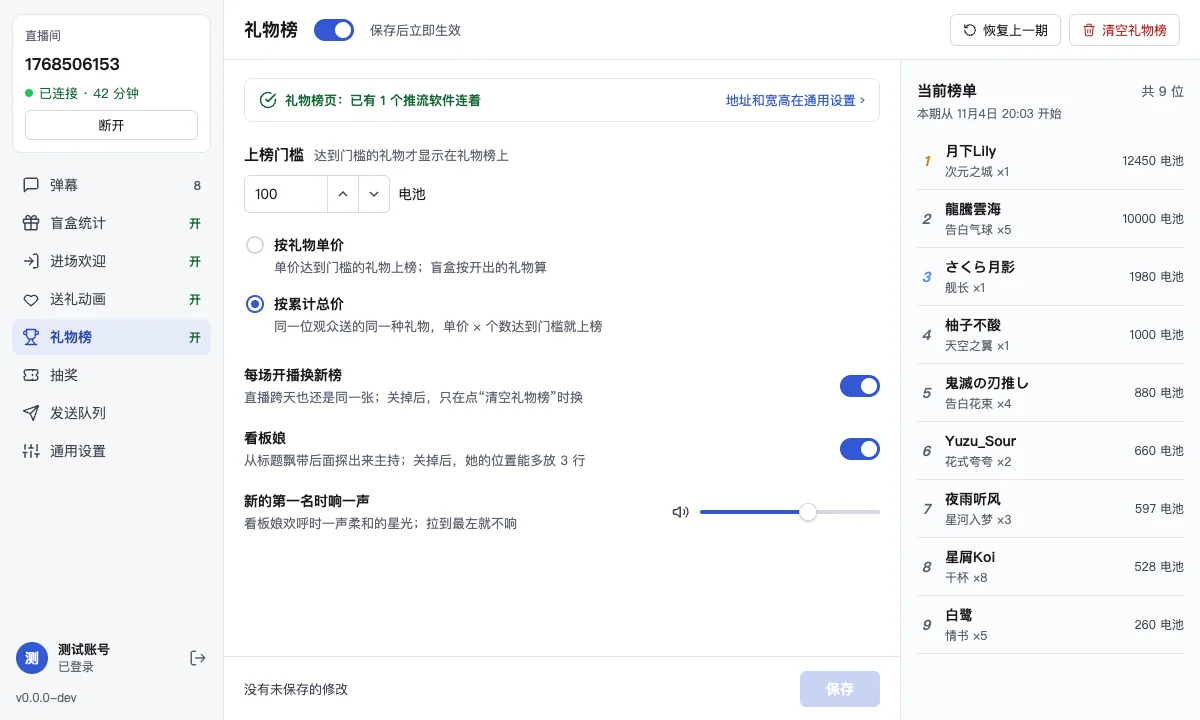
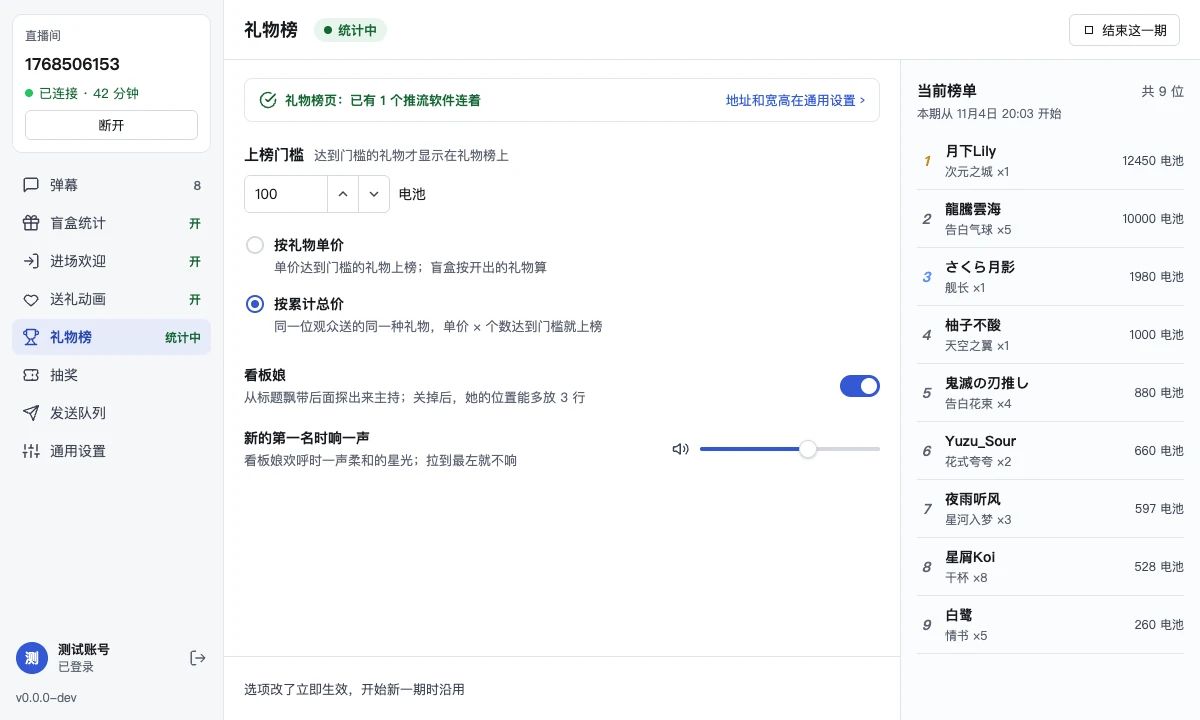
docs: the 礼物榜 runs in periods like a lottery, in the GUI only (ADR 0014, #296)
The GUI board (GS1) loses its switch and save: a 期 is started, ended and continued, only a running one records and shows on the
stream, and its options apply at once. The previews are rendered from the board again, with the ended, not-started and
end-confirm states added and the restore ones gone.

diff --git a/docs/design/gift-board/boards/GS1-GiftBoardSettings.dc.html b/docs/design/gift-board/boards/GS1-GiftBoardSettings.dc.html
@@ -50,16 +50,26 @@ a{color:#3358D4}a:hover{color:#2A47B0}
   <div style="flex: 1; min-width: 0; display: flex; flex-direction: column">
     <header style="height: 60px; flex-shrink: 0; box-sizing: border-box; display: flex; align-items: center; gap: 16px; padding: 0 20px; border-bottom: 1px solid {{t.border}}">
       <h1 style="margin: 0; font-size: 18px; font-weight: 700; white-space: nowrap">礼物榜</h1>
-      <button type="button" role="switch" aria-checked="{{onSwitch.on}}" aria-label="礼物榜" onClick="{{onSwitch.toggle}}" style="position: relative; width: 40px; height: 22px; border: 0; border-radius: 11px; background: {{onSwitch.bg}}; padding: 0"><span style="position: absolute; top: 3px; left: {{onSwitch.knob}}; width: 16px; height: 16px; border-radius: 50%; background: #fff"></span></button>
-      <span style="font-size: 13px; color: {{t.muted}}; white-space: nowrap">保存后立即生效</span>
+      <sc-if value="{{connected}}" hint-placeholder-val="{{true}}">
+        <span role="status" style="display: inline-flex; align-items: center; gap: 6px; height: 24px; padding: 0 10px; border-radius: 12px; background: {{state.bg}}; color: {{state.color}}; font-size: 13px; font-weight: 600; white-space: nowrap"><span style="width: 8px; height: 8px; box-sizing: border-box; border-radius: {{state.dotRadius}}; background: {{state.dot}}; border: {{state.dotBorder}}"></span>{{state.label}}</span>
+      </sc-if>
       <span style="flex: 1"></span>
-      <sc-if value="{{offline}}" hint-placeholder-val="{{false}}"><span style="font-size: 13px; color: {{t.muted}}; white-space: nowrap">连上直播间后才能清空和恢复</span></sc-if>
-      <button type="button" onClick="{{askRestore}}" disabled="{{restoreDisabled}}" style="height: 32px; display: inline-flex; align-items: center; gap: 6px; margin-right: -8px; padding: 0 12px; border: 1px solid {{t.control}}; border-radius: 6px; background: {{t.card}}; color: {{restoreColor}}; font: inherit; font-size: 13px; white-space: nowrap">
-        <svg width="14" height="14" viewBox="0 0 24 24" fill="none" stroke="currentColor" stroke-width="1.8" stroke-linecap="round" stroke-linejoin="round" aria-hidden="true"><path d="M3 12a9 9 0 1 0 3-6.7L3 8M3 3v5h5"></path></svg>恢复上一期
-      </button>
-      <button type="button" onClick="{{askClear}}" disabled="{{clearDisabled}}" style="height: 32px; display: inline-flex; align-items: center; gap: 6px; padding: 0 12px; border: 1px solid {{t.control}}; border-radius: 6px; background: {{t.card}}; color: {{clearColor}}; font: inherit; font-size: 13px; white-space: nowrap">
-        <svg width="14" height="14" viewBox="0 0 24 24" fill="none" stroke="currentColor" stroke-width="1.8" stroke-linecap="round" stroke-linejoin="round" aria-hidden="true"><path d="M3 6h18M8 6V4a2 2 0 0 1 2-2h4a2 2 0 0 1 2 2v2M19 6l-1 14a2 2 0 0 1-2 2H8a2 2 0 0 1-2-2L5 6M10 11v6M14 11v6"></path></svg>清空礼物榜
-      </button>
+      <sc-if value="{{offline}}" hint-placeholder-val="{{false}}"><span style="font-size: 13px; color: {{t.muted}}; white-space: nowrap">连上直播间后才能开始统计</span></sc-if>
+      <sc-if value="{{recording}}" hint-placeholder-val="{{true}}">
+        <button type="button" onClick="{{askEnd}}" style="height: 32px; display: inline-flex; align-items: center; gap: 6px; padding: 0 12px; border: 1px solid {{t.control}}; border-radius: 6px; background: {{t.card}}; color: {{t.primary}}; font: inherit; font-size: 13px; white-space: nowrap">
+          <svg width="14" height="14" viewBox="0 0 24 24" fill="none" stroke="currentColor" stroke-width="1.8" stroke-linecap="round" stroke-linejoin="round" aria-hidden="true"><path d="M6 6h12v12H6z"></path></svg>结束这一期
+        </button>
+      </sc-if>
+      <sc-if value="{{ended}}" hint-placeholder-val="{{false}}">
+        <button type="button" onClick="{{doContinue}}" style="height: 32px; display: inline-flex; align-items: center; gap: 6px; margin-right: -8px; padding: 0 12px; border: 1px solid {{t.control}}; border-radius: 6px; background: {{t.card}}; color: {{t.primary}}; font: inherit; font-size: 13px; white-space: nowrap">
+          <svg width="14" height="14" viewBox="0 0 24 24" fill="none" stroke="currentColor" stroke-width="1.8" stroke-linecap="round" stroke-linejoin="round" aria-hidden="true"><path d="M7 4l13 8-13 8z"></path></svg>继续这一期
+        </button>
+      </sc-if>
+      <sc-if value="{{notRecording}}" hint-placeholder-val="{{false}}">
+        <button type="button" onClick="{{askClear}}" disabled="{{clearDisabled}}" style="height: 32px; display: inline-flex; align-items: center; gap: 6px; padding: 0 12px; border: 1px solid {{startBorder}}; border-radius: 6px; background: {{startBg}}; color: {{startColor}}; font: inherit; font-size: 13px; font-weight: 600; white-space: nowrap">
+          <svg width="14" height="14" viewBox="0 0 24 24" fill="none" stroke="currentColor" stroke-width="2" stroke-linecap="round" stroke-linejoin="round" aria-hidden="true"><path d="M12 5v14M5 12h14"></path></svg>开始新一期
+        </button>
+      </sc-if>
     </header>
     <div style="flex: 1; min-height: 0; display: flex">
       <div style="flex: 1; min-width: 0; display: flex; flex-direction: column">
@@ -84,7 +94,7 @@ a{color:#3358D4}a:hover{color:#2A47B0}
             </div>
           </sc-if>
 
-          <section style="display: flex; flex-direction: column; gap: 10px">
+          <section style="display: flex; flex-direction: column; gap: 10px; opacity: {{optionsOpacity}}">
             <div style="display: flex; align-items: baseline; gap: 10px">
               <h2 style="margin: 0; font-size: 15px; font-weight: 700; white-space: nowrap">上榜门槛</h2>
               <span style="font-size: 13px; color: {{t.muted}}; white-space: nowrap">达到门槛的礼物才显示在礼物榜上</span>
@@ -111,15 +121,7 @@ a{color:#3358D4}a:hover{color:#2A47B0}
             </div>
           </section>
 
-          <section style="display: flex; align-items: center; gap: 16px">
-            <div style="flex: 1; display: flex; flex-direction: column; gap: 3px">
-              <h2 style="margin: 0; font-size: 14px; font-weight: 600">每场开播换新榜</h2>
-              <span style="font-size: 13px; color: {{t.muted}}; white-space: nowrap">直播跨天也还是同一张；关掉后，只在点“清空礼物榜”时换</span>
-            </div>
-            <button type="button" role="switch" aria-checked="{{perLive.on}}" aria-label="每场开播换新榜" onClick="{{perLive.toggle}}" style="position: relative; width: 40px; height: 22px; border: 0; border-radius: 11px; background: {{perLive.bg}}; padding: 0"><span style="position: absolute; top: 3px; left: {{perLive.knob}}; width: 16px; height: 16px; border-radius: 50%; background: #fff"></span></button>
-          </section>
-
-          <section style="display: flex; align-items: center; gap: 16px">
+          <section style="display: flex; align-items: center; gap: 16px; opacity: {{optionsOpacity}}">
             <div style="flex: 1; display: flex; flex-direction: column; gap: 3px">
               <h2 style="margin: 0; font-size: 14px; font-weight: 600">看板娘</h2>
               <span style="font-size: 13px; color: {{t.muted}}; white-space: nowrap">从标题飘带后面探出来主持；关掉后，她的位置能多放 3 行</span>
@@ -127,7 +129,7 @@ a{color:#3358D4}a:hover{color:#2A47B0}
             <button type="button" role="switch" aria-checked="{{mascot.on}}" aria-label="看板娘" onClick="{{mascot.toggle}}" style="position: relative; width: 40px; height: 22px; border: 0; border-radius: 11px; background: {{mascot.bg}}; padding: 0"><span style="position: absolute; top: 3px; left: {{mascot.knob}}; width: 16px; height: 16px; border-radius: 50%; background: #fff"></span></button>
           </section>
 
-          <section style="display: flex; align-items: center; gap: 16px">
+          <section style="display: flex; align-items: center; gap: 16px; opacity: {{optionsOpacity}}">
             <div style="flex: 1; display: flex; flex-direction: column; gap: 3px">
               <h2 style="margin: 0; font-size: 14px; font-weight: 600">新的第一名时响一声</h2>
               <span style="font-size: 13px; color: {{t.muted}}; white-space: nowrap">看板娘欢呼时一声柔和的星光；拉到最左就不响</span>
@@ -146,19 +148,18 @@ a{color:#3358D4}a:hover{color:#2A47B0}
         <footer style="height: 64px; flex-shrink: 0; box-sizing: border-box; display: flex; align-items: center; gap: 12px; padding: 0 20px; border-top: 1px solid {{t.border}}">
           <sc-if value="{{confirming}}" hint-placeholder-val="{{false}}">
             <span style="flex: 1"></span>
-            <span style="font-size: 14px; white-space: nowrap">清空后直播画面上的礼物榜也会变空，确定吗？</span>
+            <span style="font-size: 14px; white-space: nowrap">开始新一期后，直播画面上的礼物榜从零算起，确定吗？</span>
             <button type="button" onClick="{{cancelClear}}" style="height: 36px; padding: 0 16px; border: 1px solid {{t.control}}; border-radius: 6px; background: {{t.card}}; color: {{t.primary}}; font: inherit; font-size: 14px">取消</button>
-            <button type="button" onClick="{{doClear}}" style="height: 36px; padding: 0 22px; border: 0; border-radius: 6px; background: #B91C1C; color: #fff; font: inherit; font-size: 14px; font-weight: 600">清空</button>
+            <button type="button" onClick="{{doClear}}" style="height: 36px; padding: 0 22px; border: 0; border-radius: 6px; background: {{t.accent}}; color: {{t.onAccent}}; font: inherit; font-size: 14px; font-weight: 600">开始</button>
           </sc-if>
-          <sc-if value="{{confirmingRestore}}" hint-placeholder-val="{{false}}">
+          <sc-if value="{{confirmingEnd}}" hint-placeholder-val="{{false}}">
             <span style="flex: 1"></span>
-            <span style="font-size: 14px; white-space: nowrap">{{restoreText}}</span>
-            <button type="button" onClick="{{cancelRestore}}" style="height: 36px; padding: 0 16px; border: 1px solid {{t.control}}; border-radius: 6px; background: {{t.card}}; color: {{t.primary}}; font: inherit; font-size: 14px">取消</button>
-            <button type="button" onClick="{{doRestore}}" style="height: 36px; padding: 0 22px; border: 0; border-radius: 6px; background: {{t.accent}}; color: {{t.onAccent}}; font: inherit; font-size: 14px; font-weight: 600">恢复</button>
+            <span style="font-size: 14px; white-space: nowrap">结束后不再记录，直播画面上的榜也会收起，确定吗？</span>
+            <button type="button" onClick="{{cancelEnd}}" style="height: 36px; padding: 0 16px; border: 1px solid {{t.control}}; border-radius: 6px; background: {{t.card}}; color: {{t.primary}}; font: inherit; font-size: 14px">取消</button>
+            <button type="button" onClick="{{doEnd}}" style="height: 36px; padding: 0 22px; border: 0; border-radius: 6px; background: {{t.dangerSolid}}; color: #fff; font: inherit; font-size: 14px; font-weight: 600">结束</button>
           </sc-if>
           <sc-if value="{{notConfirming}}" hint-placeholder-val="{{true}}">
             <span style="flex: 1; font-size: 13px; color: {{t.secondary}}; white-space: nowrap">{{footerText}}</span>
-            <button type="button" disabled="{{saveDisabled}}" style="height: 36px; width: 80px; border: 0; border-radius: 6px; background: {{saveBg}}; color: {{saveColor}}; font: inherit; font-size: 14px; font-weight: 600">保存</button>
           </sc-if>
         </footer>
       </div>
@@ -236,19 +237,19 @@ a{color:#3358D4}a:hover{color:#2A47B0}
   </sc-if>
 </div>
 </x-dc>
-<script type="text/x-dc" data-dc-script data-props='{"page":{"editor":"enum","options":["礼物榜","通用设置"],"default":"礼物榜"},"scene":{"editor":"enum","options":["默认","清空确认","恢复确认","已恢复","没连直播间","按累计总价","礼物榜页没连上"],"default":"默认"},"size":{"editor":"enum","options":["1200 × 720","1040 × 600"],"default":"1200 × 720"},"dark":{"editor":"boolean","default":false},"$preview":{"width":1200,"height":720}}'>
+<script type="text/x-dc" data-dc-script data-props='{"page":{"editor":"enum","options":["礼物榜","通用设置"],"default":"礼物榜"},"scene":{"editor":"enum","options":["默认","结束确认","已结束","开始新一期确认","还没开始","没连直播间","按累计总价","礼物榜页没连上"],"default":"默认"},"size":{"editor":"enum","options":["1200 × 720","1040 × 600"],"default":"1200 × 720"},"dark":{"editor":"boolean","default":false},"$preview":{"width":1200,"height":720}}'>
 class Component extends DCLogic {
   // The app's theme tokens, as on the other GUI boards.
   tokens(dark) {
     return dark ? {
       content: '#1B1C1F', sidebar: '#141518', card: '#222428', aside: '#18191C', border: '#2E3136', subtle: '#26282C', control: '#3A3E45',
       primary: '#E8EAED', secondary: '#C2C6CE', muted: '#9097A3', disabled: '#4A4F57',
-      accent: '#8DA2FB', accentText: '#B4C3FF', accentTint: '#262F52', onAccent: '#141518', success: '#6FD08C', danger: '#F87171',
+      accent: '#8DA2FB', accentText: '#B4C3FF', accentTint: '#262F52', onAccent: '#141518', success: '#6FD08C', successTint: '#17301F', danger: '#F87171', dangerSolid: '#DC2626',
       warnBg: '#2A2114', warnBorder: '#5A4318', warnText: '#F2C46D', switchOff: '#4A4F57', saveOffBg: '#262F52', saveOffText: '#6B7591'
     } : {
       content: '#FFFFFF', sidebar: '#F6F7F9', card: '#FFFFFF', aside: '#FAFBFC', border: '#E3E6EB', subtle: '#EEF0F3', control: '#D5D9E0',
       primary: '#16181D', secondary: '#3D4350', muted: '#5B6270', disabled: '#B4BAC4',
-      accent: '#3358D4', accentText: '#2A47B0', accentTint: '#E6EBFA', onAccent: '#FFFFFF', success: '#166534', danger: '#B91C1C',
+      accent: '#3358D4', accentText: '#2A47B0', accentTint: '#E6EBFA', onAccent: '#FFFFFF', success: '#166534', successTint: '#E7F5EC', danger: '#B91C1C', dangerSolid: '#B91C1C',
       warnBg: '#FEF8EC', warnBorder: '#F5D9A8', warnText: '#78350F', switchOff: '#B4BAC4', saveOffBg: '#C9D3F2', saveOffText: '#FFFFFF'
     };
   }
@@ -265,15 +266,18 @@ class Component extends DCLogic {
     const scene = this.props.scene ?? '默认';
     const [w, h] = (this.props.size ?? '1200 × 720') === '1040 × 600' ? [1040, 600] : [1200, 720];
     const connected = scene !== '没连直播间';
-    const enabled = s.enabled ?? true, mascotOn = s.mascot ?? true, perLiveOn = s.perLive ?? true;
+    const mascotOn = s.mascot ?? true;
     const mode = s.mode ?? (scene === '按累计总价' ? 2 : 1);
     const threshold = 100;
-    const cleared = s.cleared === true;
-    // 已恢复 without a clear first = the 11月4日 board merged with the 11月3日 period (e.g. after an unwanted auto switch).
-    const merged = !cleared && (s.restored ?? scene === '已恢复');
-    const restoredNote = s.restoredNote ?? scene === '已恢复';
-    const confirming = connected && !cleared && (s.confirming ?? scene === '清空确认');
-    const confirmingRestore = connected && !confirming && !merged && (s.confirmingRestore ?? scene === '恢复确认');
+    // A 期 runs from 开始新一期 to 结束这一期, and only a running one records and shows on the stream; a new one can only begin
+    // once the last has ended. Ended or not started, the 礼物榜页 is transparent while this list keeps the ended 期 for the
+    // streamer. 还没开始: this room has never had a 期. fresh: a 期 started on this board, with nobody in it yet.
+    const fresh = s.fresh === true;
+    const status = s.status ?? (scene === '已结束' || scene === '开始新一期确认' ? 'ended' : scene === '还没开始' ? 'none' : 'recording');
+    const recording = connected && status === 'recording';
+    const ended = connected && status === 'ended';
+    const confirmingEnd = recording && (s.confirmingEnd ?? scene === '结束确认');
+    const confirming = ended && (s.confirming ?? scene === '开始新一期确认');
 
     // [nickname, gift, unit price in 电池, count]
     const all = [
@@ -281,17 +285,7 @@ class Component extends DCLogic {
       ['鬼滅の刃推し', '告白花束', 220, 4], ['Yuzu_Sour', '花式夸夸', 330, 2], ['夜雨听风', '星河入梦', 199, 3], ['星屑Koi', '干杯', 66, 8], ['白鹭', '情书', 52, 5]
     ];
     const shown = all.filter(([, , p, n]) => (mode === 1 ? p : p * n) >= threshold).sort((a, b) => b[2] * b[3] - a[2] * a[3]);
-    // The 11月3日 20:01 period; restoring merges it back: same viewer + same gift adds up.
-    const prev = [['龍騰雲海', '告白气球', 2000, 3], ['Aki秋', '为你加冕', 4500, 1], ['南風知我意', '提督', 19980, 1], ['夜雨听风', '星河入梦', 199, 2]];
-    const current = shown.map(r => [...r]);
-    if (merged) {
-      for (const [n, g, p, c] of prev) {
-        const hit = current.find(r => r[0] === n && r[1] === g);
-        if (hit) hit[3] += c; else if ((mode === 1 ? p : p * c) >= threshold) current.push([n, g, p, c]);
-      }
-      current.sort((a, b) => b[2] * b[3] - a[2] * a[3]);
-    }
-    const rows = connected && enabled && !cleared ? current.map(([name, gift, p, n], i) => ({
+    const rows = connected && status !== 'none' && !fresh ? shown.map(([name, gift, p, n], i) => ({
       rank: String(i + 1), name, gift: gift + ' ×' + n, value: (p * n) + ' 电池', rankColor: i < 3 ? ['#C9851D', t.muted, '#5B8CFF'][i] : t.muted
     })) : [];
 
@@ -308,20 +302,29 @@ class Component extends DCLogic {
     };
     // 礼物榜 sits right after 送礼动画: both are about gifts.
     const nav = [['弹幕', icons.danmaku, connected ? '8' : '0'], ['盲盒统计', icons.box, '开'], ['进场欢迎', icons.entry, '开'], ['送礼动画', icons.heart, '开'],
-      ['礼物榜', icons.trophy, enabled ? '开' : '关'], ['抽奖', icons.ticket, ''], ['发送队列', icons.send, ''], ['通用设置', icons.sliders, '']].map(([label, icon, badge]) => {
+      ['礼物榜', icons.trophy, recording ? '统计中' : ''], ['抽奖', icons.ticket, ''], ['发送队列', icons.send, ''], ['通用设置', icons.sliders, '']].map(([label, icon, badge]) => {
       const active = label === page;
       return { label, icon, badge, current: active ? 'page' : 'false', bg: active ? t.accentTint : 'transparent', color: active ? t.accentText : t.secondary,
-        weight: active ? 600 : 400, badgeColor: badge === '开' ? t.success : t.muted };
+        weight: active ? 600 : 400, badgeColor: badge === '开' || badge === '统计中' ? t.success : t.muted };
     });
 
     const modes = [
       { id: 1, title: '按礼物单价', note: '单价达到门槛的礼物上榜；盲盒按开出的礼物算' },
       { id: 2, title: '按累计总价', note: '同一位观众送的同一种礼物，单价 × 个数达到门槛就上榜' }
     ].map(m => ({ ...m, checked: m.id === mode ? 'true' : 'false', ring: '2px solid ' + (m.id === mode ? t.accent : t.control), dot: m.id === mode ? t.accent : 'transparent', pick: () => this.setState({ mode: m.id }) }));
-    const dirty = mode !== (scene === '按累计总价' ? 2 : 1) || enabled !== true || mascotOn !== true || perLiveOn !== true;
     const pageOk = scene !== '礼物榜页没连上';
-    const asideCount = rows.length ? '共 ' + rows.length + ' 位' : '';
-    const emptyText = !connected ? '连上直播间后，这里显示这个直播间的礼物榜。' : !enabled ? '礼物榜关着，不记录也不显示。' : '还没有人上榜。达到门槛的礼物会出现在这里和直播画面上。';
+    // Viewers, not rows: one viewer can be on the board for two gifts.
+    const asideCount = rows.length ? '共 ' + new Set(rows.map(r => r.name)).size + ' 位' : '';
+    const emptyText = !connected ? '连上直播间后，这里显示这个直播间的礼物榜。'
+      : status === 'none' ? '还没有开始统计。点右上角“开始新一期”，之后收到的礼物会出现在这里和直播画面上。'
+      : status === 'ended' ? '这一期没有人上榜。' : '还没有人上榜。达到门槛的礼物会出现在这里和直播画面上。';
+    // Not by color alone: a filled dot and 统计中 while recording, a hollow square and 已结束 after.
+    const state = status === 'recording'
+      ? { label: '统计中', color: t.success, bg: t.successTint, dot: t.success, dotRadius: '50%', dotBorder: '0' }
+      : status === 'ended'
+        ? { label: '已结束', color: t.secondary, bg: t.subtle, dot: 'transparent', dotRadius: '1px', dotBorder: '1.5px solid ' + t.muted }
+        : { label: '还没开始', color: t.secondary, bg: t.subtle, dot: 'transparent', dotRadius: '50%', dotBorder: '1.5px solid ' + t.muted };
+    const startDisabled = !connected;
     const pages = [
       { name: '视频页', note: '欢迎动画、进场动画和送礼动画在这里播放', size: '1920 × 1080', icon: icons.film, url: 'http://localhost:17890/video', status: '2 个推流软件连着', statusColor: t.success },
       { name: '抽奖页', note: '报名、开奖和中奖名单', size: '横屏 1920 × 1080 · 竖屏 1080 × 1920', icon: icons.ticket, url: 'http://localhost:17890/lottery', status: '1 个推流软件连着', statusColor: t.success },
@@ -330,19 +333,27 @@ class Component extends DCLogic {
 
     return {
       t, w, h, connected, offline: !connected, isBoard: page === '礼物榜', isGeneral: page === '通用设置', nav, pages,
-      onSwitch: this.toggle(t, 'enabled', enabled), perLive: this.toggle(t, 'perLive', perLiveOn), mascot: this.toggle(t, 'mascot', mascotOn), modes, threshold: String(threshold),
-      pageOk: pageOk && enabled, pageWaiting: !pageOk && enabled,
+      mascot: this.toggle(t, 'mascot', mascotOn), modes, threshold: String(threshold), state, recording,
+      // The options belong to the room's 期, so they wait for a room.
+      pageOk, pageWaiting: !pageOk, optionsOpacity: connected ? '1' : '0.45',
       rows, hasRows: rows.length > 0, noRows: rows.length === 0, asideCount, emptyText, count: rows.length,
-      clearDisabled: !connected || rows.length === 0 ? 'true' : null, clearColor: !connected || rows.length === 0 ? t.disabled : t.danger,
-      confirming, confirmingRestore, notConfirming: !confirming && !confirmingRestore,
-      restoreDisabled: connected ? null : 'true', restoreColor: connected ? t.primary : t.disabled,
-      restoreText: cleared ? '上一期（11月4日，' + shown.length + ' 位）会恢复回来，确定吗？' : '上一期（11月3日，' + prev.length + ' 位）会合并回来，确定吗？',
-      askRestore: () => this.setState({ confirmingRestore: true, confirming: false }), cancelRestore: () => this.setState({ confirmingRestore: false }),
-      doRestore: () => this.setState(cleared ? { confirmingRestore: false, cleared: false, restoredNote: true } : { confirmingRestore: false, restored: true, restoredNote: true }),
-      periodText: !connected ? '' : merged ? '本期从 11月3日 20:01 开始' : cleared ? '本期从 11月4日 21:15 开始' : '本期从 11月4日 20:03 开始',
-      askClear: () => this.setState({ confirming: true, confirmingRestore: false }), cancelClear: () => this.setState({ confirming: false }), doClear: () => this.setState({ confirming: false, cleared: true, restoredNote: false }),
-      footerText: restoredNote ? '已恢复上一期' : cleared ? '已清空直播间 1768506153 的礼物榜' : dirty ? '有未保存的修改' : '没有未保存的修改',
-      saveDisabled: dirty ? null : 'true', saveBg: dirty ? t.accent : t.saveOffBg, saveColor: dirty ? t.onAccent : t.saveOffText
+      // A new 期 needs a room.
+      clearDisabled: startDisabled ? 'true' : null, ended, notRecording: !recording,
+      startBg: startDisabled ? t.card : t.accent, startColor: startDisabled ? t.disabled : t.onAccent, startBorder: startDisabled ? t.control : t.accent,
+      confirming, confirmingEnd, notConfirming: !confirming && !confirmingEnd,
+      askEnd: () => this.setState({ confirmingEnd: true }), cancelEnd: () => this.setState({ confirmingEnd: false }),
+      doEnd: () => this.setState({ confirmingEnd: false, status: 'ended', note: 'ended' }),
+      // Continuing is undone by ending again, so it asks nothing.
+      doContinue: () => this.setState({ status: 'recording', confirming: false, note: 'continued' }),
+      periodText: !connected || status === 'none' ? ''
+        : fresh ? (status === 'ended' ? '本期 11月4日 21:15 – 21:16，已结束' : '本期从 11月4日 21:15 开始')
+        : status === 'ended' ? '本期 11月4日 20:03 – 22:41，已结束' : '本期从 11月4日 20:03 开始',
+      // Nothing on the board yet: starting needs no question.
+      askClear: () => this.setState(status === 'none' ? { status: 'recording', fresh: true, note: 'started' } : { confirming: true }),
+      cancelClear: () => this.setState({ confirming: false }),
+      doClear: () => this.setState({ confirming: false, status: 'recording', fresh: true, note: 'started' }),
+      footerText: { started: '已为直播间 1768506153 开始新的一期', ended: '已结束这一期，直播画面上的榜已收起', continued: '已继续这一期，画面上重新显示榜' }[s.note]
+        ?? (connected ? '选项改了立即生效，开始新一期时沿用' : '选项跟着直播间的期，连上直播间后才能改')
     };
   }
 }

diff --git a/tests/Aether.Core.Tests/GiftBoardNewPeriodTests.cs b/tests/Aether.Core.Tests/GiftBoardNewPeriodTests.cs
@@ -1,0 +1,50 @@
+using Aether.Core.Tests.Support;
+
+namespace Aether.Core.Tests;
+
+public sealed class GiftBoardNewPeriodTests
+{
+    [Fact]
+    public async Task A_new_period_starts_empty_and_the_next_gift_starts_from_zero()
+    {
+        await using var h = new WatchHarness();
+        await using var updates = await h.WatchWithGiftBoardAsync();
+        await h.PushAndSyncAsync(updates, BlindGiftFixture.Ordinary(tid: "before"));
+        await using var states = h.Client.GiftBoard.GetUpdatesAsync(h.Stop.Token).GetAsyncEnumerator(h.Stop.Token);
+        Assert.Single((await h.NextAsync(states)).Rows);
+
+        h.Client.GiftBoard.StartNewPeriod();
+        Assert.Empty((await h.NextAsync(states)).Rows);
+        await h.PushAndSyncAsync(updates, BlindGiftFixture.Ordinary(tid: "after"));
+
+        Assert.Equal(1, Assert.Single(await h.BoardRowsAsync()).Num);
+        Assert.Equal(2L, TestDatabase.GiftBoardPeriods(h.DataDirectory));
+    }
+
+    [Fact]
+    public async Task A_new_period_leaves_the_boards_of_other_rooms_alone()
+    {
+        await using var h = new WatchHarness();
+        h.Http.SetRoom(roomId: 999);
+        await h.WatchAndLeaveAGiftAsync();
+        h.Http.SetRoom();
+        await using (var updates = await h.WatchConnectedAsync())
+        {
+            await h.PushAndSyncAsync(updates, BlindGiftFixture.Ordinary(uid: 20002));
+            h.Client.GiftBoard.StartNewPeriod();
+        }
+
+        h.Http.SetRoom(roomId: 999);
+        await using var again = await h.WatchConnectedAsync();
+
+        Assert.Equal(["10001/gift:32698"], (await h.BoardRowsAsync()).Select(row => row.Id));
+    }
+
+    [Fact]
+    public async Task A_new_period_needs_a_room_connection()
+    {
+        await using var h = new WatchHarness();
+
+        Assert.Throws<InvalidOperationException>(h.Client.GiftBoard.StartNewPeriod);
+    }
+}

diff --git a/docs/design/gift-board/README.md b/docs/design/gift-board/README.md
@@ -117,33 +117,39 @@ node docs/design/gift-board/tools/server.mjs 8799
 
 ## GUI 设置页
 
-画板 `boards/GS1-GiftBoardSettings.dc.html`。照现在真实界面的无头截图画（送礼动画页、通用设置页），主题色、字号和控件都沿用现有设置分区。
+画板 `boards/GS1-GiftBoardSettings.dc.html`。照现在真实界面的无头截图画（送礼动画页、通用设置页），主题色、字号和控件都沿用现有设置分区。礼物榜像抽奖一样按期运行（[ADR 0014](../../adr/0014-gift-board-runs-in-periods-like-a-lottery.md)），这一页没有开关，也没有保存。
 
 | 画面 | props | 画布 | 截图 |
 |---|---|---|---|
-| 浅色 | `{}` | GS1 | `gui-light.webp` |
-| 深色 | `{"dark":true}` | GS2 | `gui-dark.webp` |
-| 清空确认 | `{"scene":"清空确认"}` | GS3 | `gui-clear-confirm.webp` |
+| 统计中，浅色 | `{}` | GS1 | `gui-light.webp` |
+| 统计中，深色 | `{"dark":true}` | GS2 | `gui-dark.webp` |
+| 结束这一期确认 | `{"scene":"结束确认"}` | GS11 | `gui-end-confirm.webp` |
+| 已结束 | `{"scene":"已结束"}` | GS12 | `gui-ended.webp` |
+| 已结束后开始新一期确认 | `{"scene":"开始新一期确认"}` | GS3 | `gui-new-period-confirm.webp` |
+| 还没开始 | `{"scene":"还没开始"}` | GS13 | `gui-not-started.webp` |
 | 没连直播间 | `{"scene":"没连直播间"}` | GS4 | `gui-offline.webp` |
 | 按累计总价 | `{"scene":"按累计总价"}` | GS5 | `gui-total.webp` |
 | 最小窗口，礼物榜页没连上 | `{"size":"1040 × 600","scene":"礼物榜页没连上"}` | GS6 | `gui-min-window.webp` |
 | 通用设置的页面列表 | `{"page":"通用设置"}` | GS7 | `gui-general-pages.webp` |
-| 恢复上一期确认（自动换榜后） | `{"scene":"恢复确认"}` | GS8 | `gui-restore-confirm.webp` |
-| 已恢复，两期合并 | `{"scene":"已恢复"}` | GS9 | `gui-restored.webp` |
 | 通用设置，礼物榜页没连上 | `{"page":"通用设置","scene":"礼物榜页没连上"}` | GS10 | `gui-general-waiting.webp` |
 | 进场欢迎的动画音量也换成拉杆（不在本包，画布上的 EG1） | — | EG1 | `gui-animation-volume.webp` |
 
-- **导航**：放在“送礼动画”下面，图标是奖杯；开着时右边写“开”，关着写“关”。
-- **标题栏**：标题、开关、“保存后立即生效”；右边是“恢复上一期”和“清空礼物榜”两个按钮。“恢复上一期”是普通灰框按钮，回退箭头图标，没连直播间或没有上一期时不可用；“清空礼物榜”是垃圾桶图标、红字，没连直播间或榜上没人时不可用。没连直播间时，按钮左边提示“连上直播间后才能清空和恢复”。
-- **清空**：点了以后底部栏换成“清空后直播画面上的礼物榜也会变空，确定吗？ 取消 清空”，“清空”是红底按钮，做法同抽奖的“结束”。清空后底部栏写“已清空直播间 1768506153 的礼物榜”。
-- **恢复上一期**：点了以后底部栏换成“上一期（11月3日，4 位）会合并回来，确定吗？ 取消 恢复”，当前这一期是空的（例如刚清空）时写“会恢复回来”；“恢复”是主色按钮。恢复后同一观众同一礼物个数相加（龍騰雲海的告白气球 ×5 加上一期 ×3 成了 ×8），底部栏写“已恢复上一期”。
+- **导航**：放在“送礼动画”下面，图标是奖杯；统计中时右边写绿色的“统计中”，别的时候不写。
+- **标题栏**：标题，右边是状态标记，不只靠颜色：绿底实心圆点“统计中”、灰底空心方块“已结束”、灰底空心圆“还没开始”（没连直播间时不显示）。最右边按状态只放能用的按钮，同抽奖“先结束才能新开”：
+  - 还没开始：“开始新一期”（主色实心，加号图标），点了直接开始，不用确认；
+  - 统计中：“结束这一期”（灰框，方块图标）；
+  - 已结束：“继续这一期”（灰框，播放图标，点了接着统计、画面上重新显示榜，不用确认）和“开始新一期”（主色实心）；
+  - 没连直播间：“开始新一期”不可用，左边写“连上直播间后才能开始统计”。
+- **结束这一期**：底部栏换成“结束后不再记录，直播画面上的榜也会收起，确定吗？ 取消 结束”，“结束”是红底按钮，同抽奖的“结束”。结束后底部栏写“已结束这一期，直播画面上的榜已收起”。
+- **开始新一期**（已结束时）：底部栏换成“开始新一期后，直播画面上的礼物榜从零算起，确定吗？ 取消 开始”，“开始”是主色按钮。开始后底部栏写“已为直播间 1768506153 开始新的一期”。继续以后写“已继续这一期，画面上重新显示榜”。
+- **底部栏**：没有保存按钮。平时写“选项改了立即生效，开始新一期时沿用”；没连直播间时写“选项跟着直播间的期，连上直播间后才能改”。
 - **礼物榜页状态条**：做法同送礼动画页的视频页状态条。没有推流软件连着时，换成黄色提醒和接入步骤。
+- **选项**：上榜门槛、比法、看板娘、音量跟着这一期，改了立即生效，开始新一期时沿用上一期的；没连直播间时变灰不能改。
 - **上榜门槛**：数字框（正整数）加“电池”；下面两个单选，“按礼物单价”和“按累计总价”，各带一行说明。
-- **每场开播换新榜**：放在门槛下面、看板娘上面，一行标题加说明“直播跨天也还是同一张；关掉后，只在点“清空礼物榜”时换”，开关在右边，默认开。
 - **看板娘**：一行标题加说明“从标题飘带后面探出来主持；关掉后，她的位置能多放 3 行”，开关在右边，默认开。
 - **新的第一名时响一声**：放在看板娘下面，说明“看板娘欢呼时一声柔和的星光；拉到最左就不响”；右边是音量拉杆，默认 60%。
 - **音量统一用拉杆**：小喇叭图标加一根 180 宽的拉杆，不显示数字，拉到最左就是不响；左边一段是主题色，圆点白底、细边、轻阴影。进场欢迎 → 动画分页“试播”一行右边原来的“音量 [80] %”数字框也换成同一个拉杆（`gui-animation-volume.webp`，画布上是 EG1）。设置文件照旧存 0 到 100 的数字。
-- **右栏“当前榜单”**：只读，顺序和礼物榜页完全一样。每行是名次（斜体数字，前三名金、灰、蓝）、昵称（放不下时省略号）、礼物 × 个数，以及这一行的价值（电池）。右上角写“共 N 位”，标题下面一行写“本期从 11月4日 20:03 开始”，自动换榜、清空、恢复以后跟着变；没连直播间时不显示。没有内容时按情况提示：没连直播间、礼物榜关着、还没有人上榜。
+- **右栏“当前榜单”**：只读，顺序和礼物榜页完全一样。每行是名次（斜体数字，前三名金、灰、蓝）、昵称（放不下时省略号）、礼物 × 个数，以及这一行的价值（电池）。右上角写“共 N 位”，数的是观众，同一位观众送了两种上榜的礼物也只算一位；标题下面一行，统计中写“本期从 11月4日 20:03 开始”，已结束写“本期 11月4日 20:03 – 22:41，已结束”；没连直播间、还没开始时不显示。结束以后直播画面上的榜收起，右栏照样留着这一期的结果。没有内容时按情况提示：没连直播间、还没开始（提示点“开始新一期”）、还没有人上榜、这一期没有人上榜。
 - **通用设置**：网页服务的页面列表在视频页、抽奖页后面加“礼物榜页”，说明写“送礼观众的排行”；连接状态和复制按钮同另外两个页面。
 - **素材宽高只写在页面列表里**：每行地址框右边、“复制”左边一栏，取景框小图标加宽高，三行对齐。视频页“1920 × 1080”（动画画布固定横屏），抽奖页“横屏 1920 × 1080 · 竖屏 1080 × 1920”，礼物榜页“480 × 1000，可以等比放大”。“页面”旁边写“每个页面在直播姬里各加一个浏览器素材，宽高照每行写的填”；某行没连上时，下面写“还没有推流软件连着。在直播姬里添加浏览器素材，地址和宽高照这一行填；已经加过的，右键素材 → 刷新。”别处不写尺寸：功能页状态条的链接写“地址和宽高在通用设置 ›”，礼物榜页没连上时写“地址和宽高照通用设置里“礼物榜页”那一行填”，抽奖主题旁只留“两种抽奖共用”。
 - 最小窗口 1040×600 下，固定文字都不折行；黄色提醒里的接入步骤允许折行，同现有页面。

diff --git a/docs/adr/0014-gift-board-runs-in-periods-like-a-lottery.md b/docs/adr/0014-gift-board-runs-in-periods-like-a-lottery.md
@@ -1,0 +1,18 @@
+# 礼物榜像抽奖一样按期运行，只在 GUI 里
+
+礼物榜不是设置文件里的一个开关，而是像抽奖一样由主播在 GUI 里开始和结束：点“开始新一期”开始统计，点“结束这一期”停下，结束了还能“继续这一期”。只有统计中的一期记录礼物、直播画面上才显示榜；还没开始和结束以后，礼物榜页是透明的。门槛、比法、看板娘、音量跟着期存在数据库里，改了立即生效，开始新一期时沿用上一期的。CLI 不碰礼物榜。不按开播自动换期。
+
+## Considered Options
+
+- 设置文件里的开关，每场开播自动换一期（#296 原来的方案）：要靠 `room_init` 的开播时间分场，短暂断流后它变不变没有验证，变了就会在直播画面上把一场拆成两张榜；开关开着就一直记录。没有选。
+- 设置文件里的开关，加手动“开始新一期”：开关和开始新一期都在管“统计不统计”，开着就一直记录，CLI 还要另外一套。没有选。
+- 结束以后画面停在最后的结果：主播要的是结束以后榜从画面上收起，结果留在 GUI 里看。没有选。
+- 统计中也能“恢复上一期”，把两期合并：按状态给按钮（统计中只能结束、结束了才能开始新一期或继续）以后，用不上合并。没有选。
+
+## Consequences
+
+- `gift_board` 设置分组和它的保存、校验、补写都去掉；还没发布，不用写升级步骤。
+- 每场直播要主播自己点“开始新一期”；忘了点，画面上就没有榜，或者接着记在上一期里。
+- 结束以后观众看不到最终排名，结果只留在 GUI 里。
+- 选项每个直播间各一份，跟着最新的一期走；没连直播间时不能改。
+- 只用 CLI 的主播没有礼物榜。
